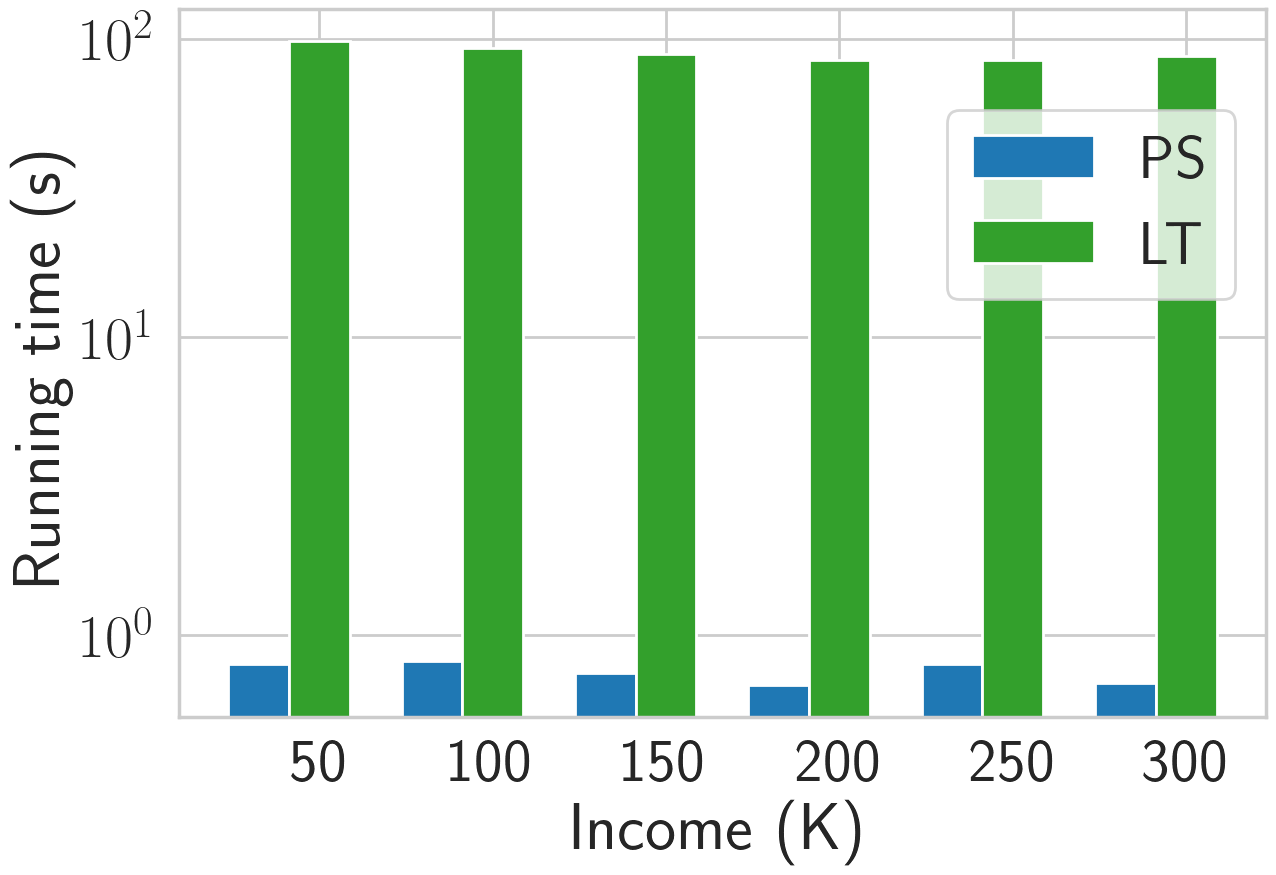
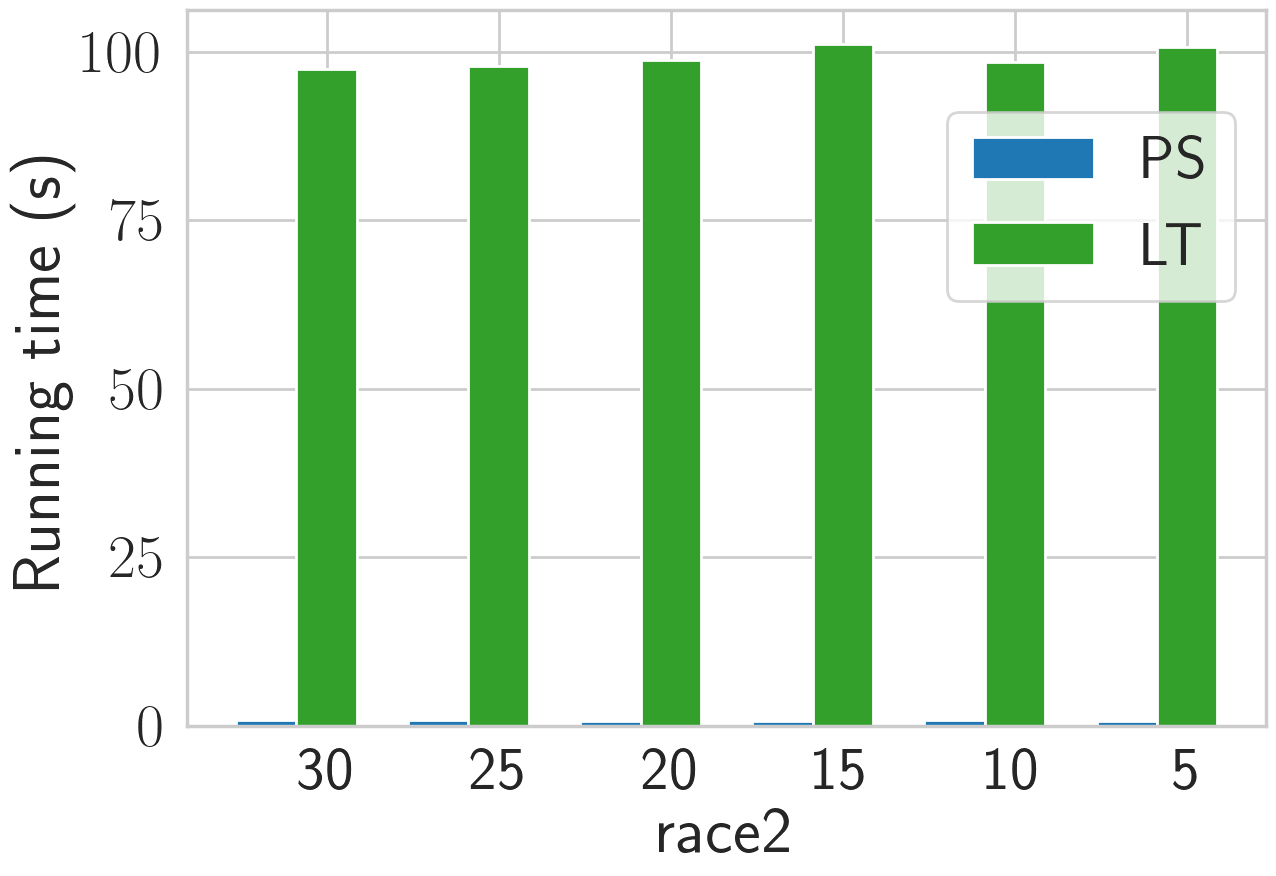
healthcare constraint change q1c2

diff --git a/Experiment/healthcare/constraint_change/Q1C2/constraint_change_q1c2.py b/Experiment/healthcare/constraint_change/Q1C2/constraint_change_q1c2.py
@@ -10,7 +10,7 @@ import time
 from intbitset import intbitset
 import json
 
-from Algorithm import ProvenanceSearchValues_4_20220712 as ps
+from Algorithm import ProvenanceSearchValues_4_20220712_global as ps
 from Algorithm import LatticeTraversal_2_2022405 as lt
 
 
@@ -33,7 +33,7 @@ def run_query(q):
 
     time_output_file = r"./constraint_change_q1c2.csv"
     time_output = open(time_output_file, "w")
-    time_output.write("income,PS,LT\n")
+    time_output.write("race2<=,PS,LT\n")
 
     result_output_file = r"./result_q1c2.txt"
     result_output = open(result_output_file, "w")
@@ -44,7 +44,7 @@ def run_query(q):
         constraint_file = constraint_file_prefix + str(i) + ".json"
 
         print("========================== provenance search ===================================")
-        minimal_refinements1, running_time1 = \
+        minimal_refinements1, running_time1, assign_num = \
             ps.FindMinimalRefinement(data_file, query_file, constraint_file, time_limit)
 
         print("running time = {}".format(running_time1))
@@ -58,8 +58,8 @@ def run_query(q):
             print(*minimal_refinements2, sep="\n")
 
         result_output.write("\n")
-        idx = i * 50
-        time_output.write("{},{:0.2f},{:0.2f}\n".format(idx, running_time1, running_time2))
+        idx = 35 - i * 5
+        time_output.write("{},{:0.2f},{:0.2f},{}\n".format(idx, running_time1, running_time2, assign_num))
         result_output.write("{}\n".format(idx))
         result_output.write(",".join(str(item) for item in minimal_added_refinements1))
         result_output.write("\n")

diff --git a/Experiment/healthcare/constraint_change/Q1C2/fig.py b/Experiment/healthcare/constraint_change/Q1C2/fig.py
@@ -58,10 +58,10 @@ plt.bar(index, execution_timeps, bar_width, color=color[0], label=label[0])
 plt.bar(index + bar_width, execution_timelt, bar_width,  color=color[1], label=label[1])
 plt.xticks(index + bar_width, x_list)
 
-plt.xlabel('Income (K)')
+plt.xlabel('race2')
 plt.ylabel('Running time (s)')
 plt.legend(bbox_to_anchor=(1, 0.9), loc="upper right")
-plt.yscale("log")
+# plt.yscale("log")
 plt.tight_layout()
 plt.savefig("healthcare_constraint_change_q1c2.png",
             bbox_inches='tight')
